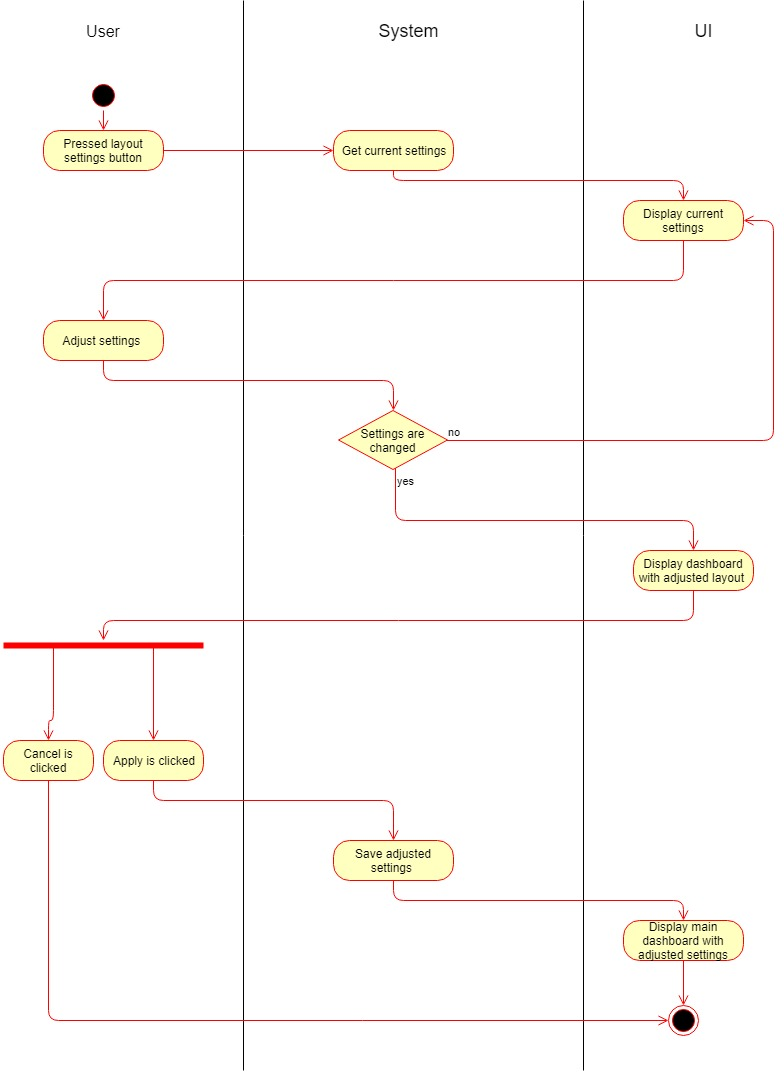
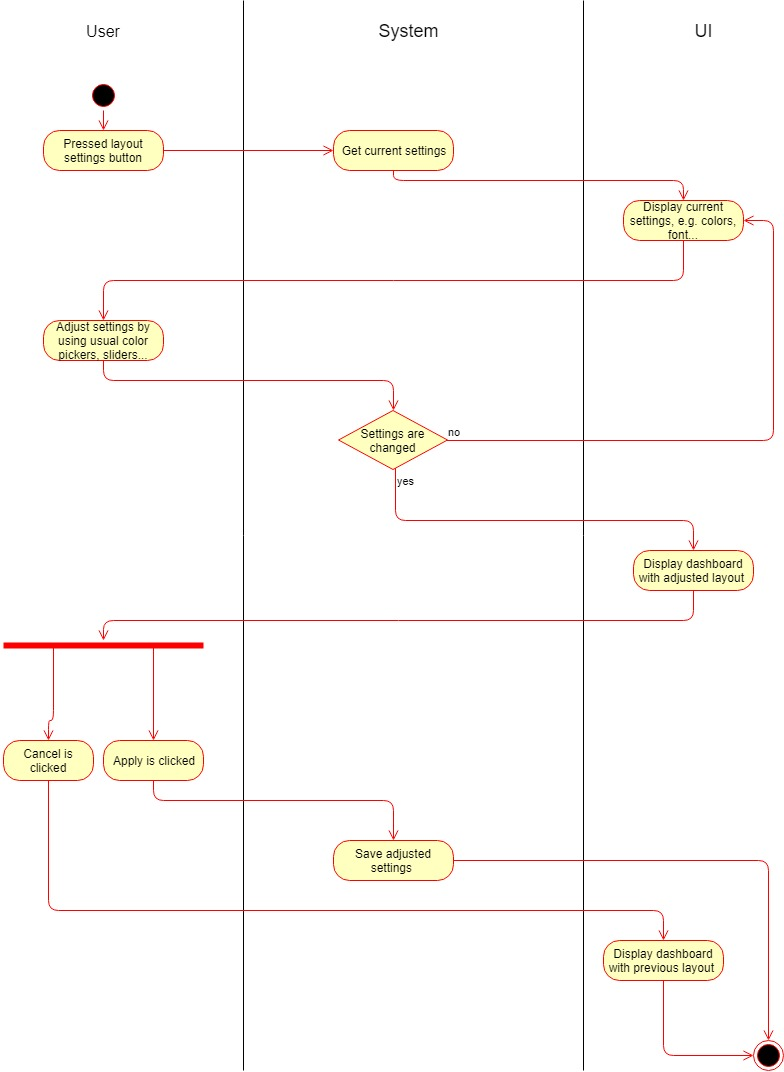
master MARKDOWN changed UCS according to comment on blog

diff --git a/docs/ucs/layout/UCS_change_layout.md b/docs/ucs/layout/UCS_change_layout.md
@@ -23,7 +23,7 @@ dashup - Use Case Specification: Change Layout
  
 # 1. Change Layout - Brief Description
 This use-case allows to user to change the layout and the arrangement of sections and panels on his/her
-personal dashboard. First the user should be able to change basic layouts of the board, e.g. the main color or 
+personal dashboard. The user should be able to change the basic appearance of the board, e.g. the main color or 
 font. These settings can be changed in a little layout menu. 
 
 # 2. Flow of Events

diff --git a/docs/ucs/panelStructure/UCS_change_panelStructure.md b/docs/ucs/panelStructure/UCS_change_panelStructure.md
@@ -47,7 +47,7 @@ mock-ups.
 
 Panels can be rearranged by drag and drop. They can be moved around between all sections and even deleted from the dashboard.
 
-The user can exit the change mode at all without saving times and roll the structure back to the previous one.
+The user can leave the change mode at any time without saving and roll the structure back to the previous one.
 
 If the user decides to keep the structure he can confirm his/her changes and the data will be stored on the database.
  
